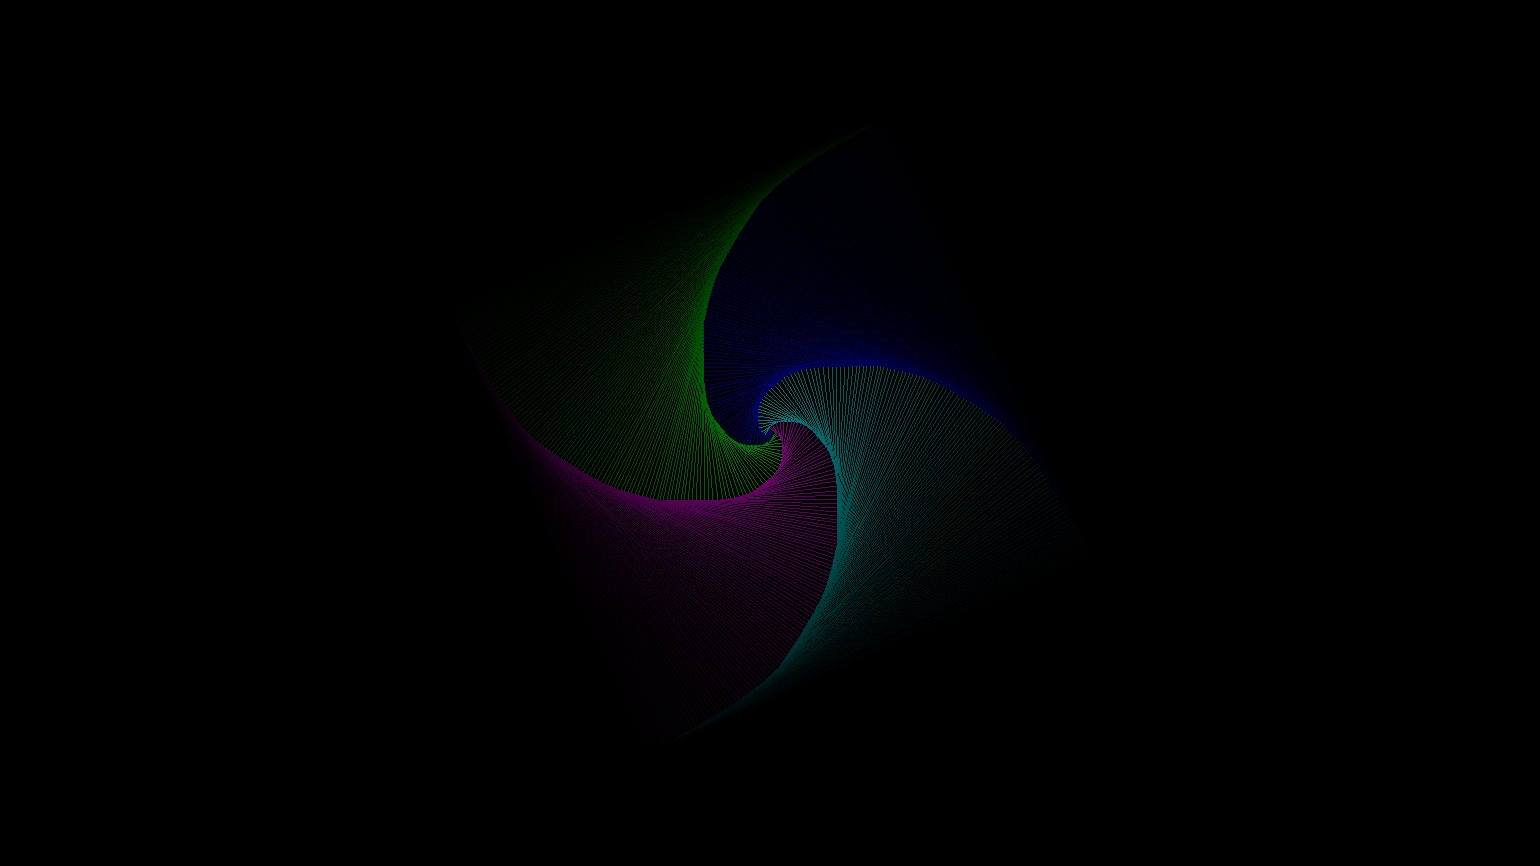
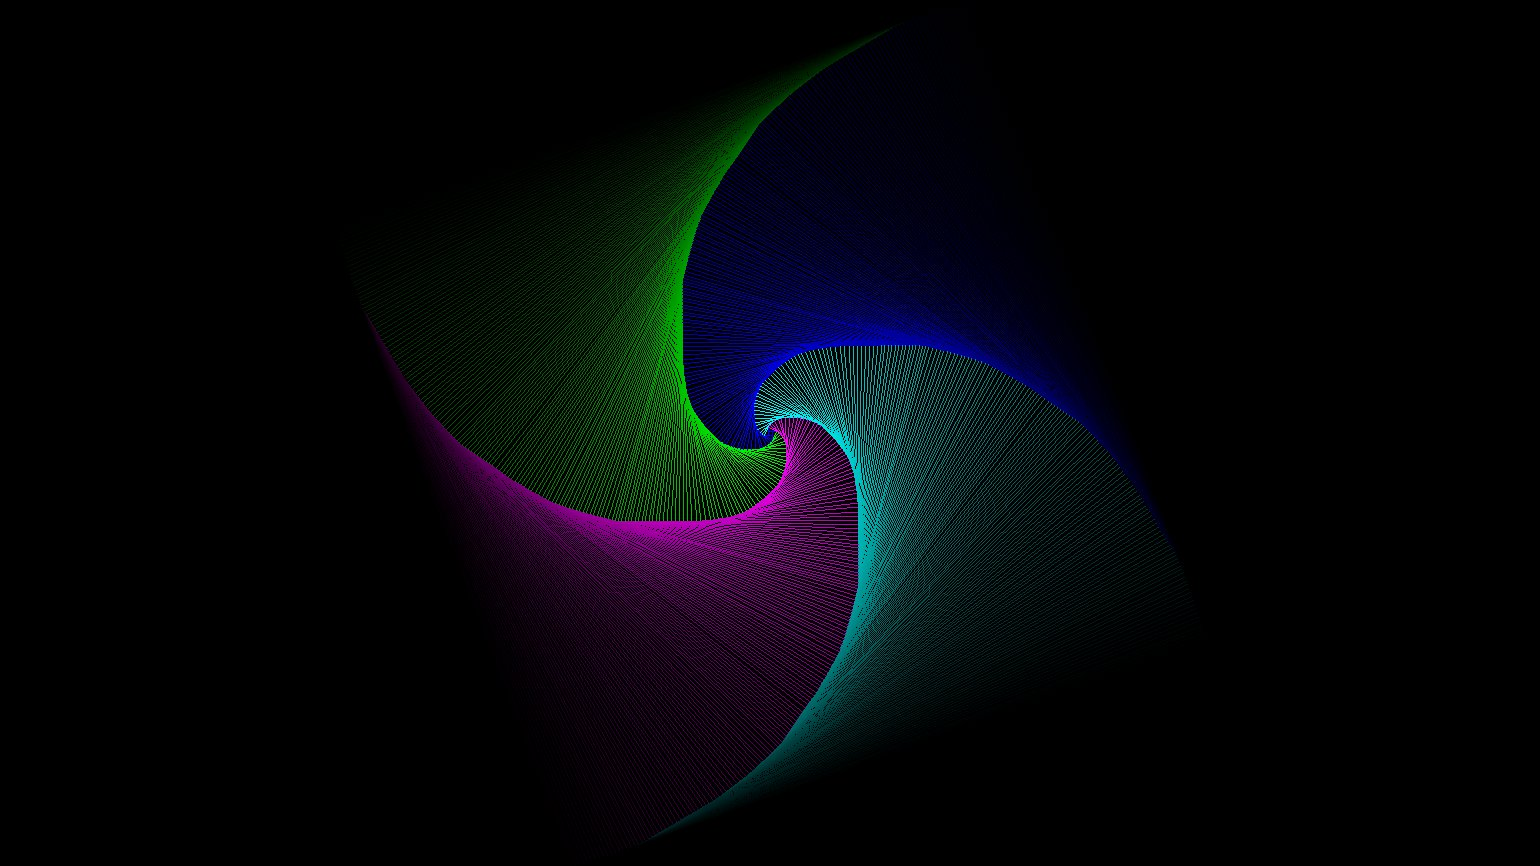
redraw ocean

Changed region(s): [[0.2494, 0.0624, 0.7481, 0.9665]]

diff --git a/spiral_drawing.py b/spiral_drawing.py
@@ -31,7 +31,7 @@ MIDORANGE = (192, 79, 0)
 PURPLE = (128, 0, 128)
 MIDPURPLE = (192, 0, 192)
 sunset = [MIDORANGE, MIDRED, DARKRED, DARKBLUE]
-ocean = [DARKGREEN, DARKBLUE, GREYGREEN, PURPLE]
+ocean = [GREEN, BLUE, CYAN, PINK]
 carousel = [RED, YELLOW, GREEN, YELLOW] # trying running this with rotate
 summer = [GREEN, YELLOW, GREEN, BLUE]
 
@@ -43,11 +43,11 @@ x = 1540 # width of the window
 y = int(x / aspect_ratio) # height of your screen
 size = [x, y]
 # Try out preset colorschemes or try out new ones
-colors = summer
+colors = ocean
 background = BLACK
 squares = 800 # number of squares drawn in the window
-shade = False # creates fading effect on the colors as spiral moves outward
-gradient = 1.05 # recommend 1.05 for dark colors (128-192) and 1.4 for light colors (255)
+shade = True # creates fading effect on the colors as spiral moves outward
+gradient = 1.5 # recommend 1.05 for dark colors (128-192) and 1.4 for light colors (255)
 rotate = False # rotates colors around the spiral
 same_colors = False # use the same color for all sides of a each square in the spiral
 curr_length = 4 # starting side length of the first square in the spiral
